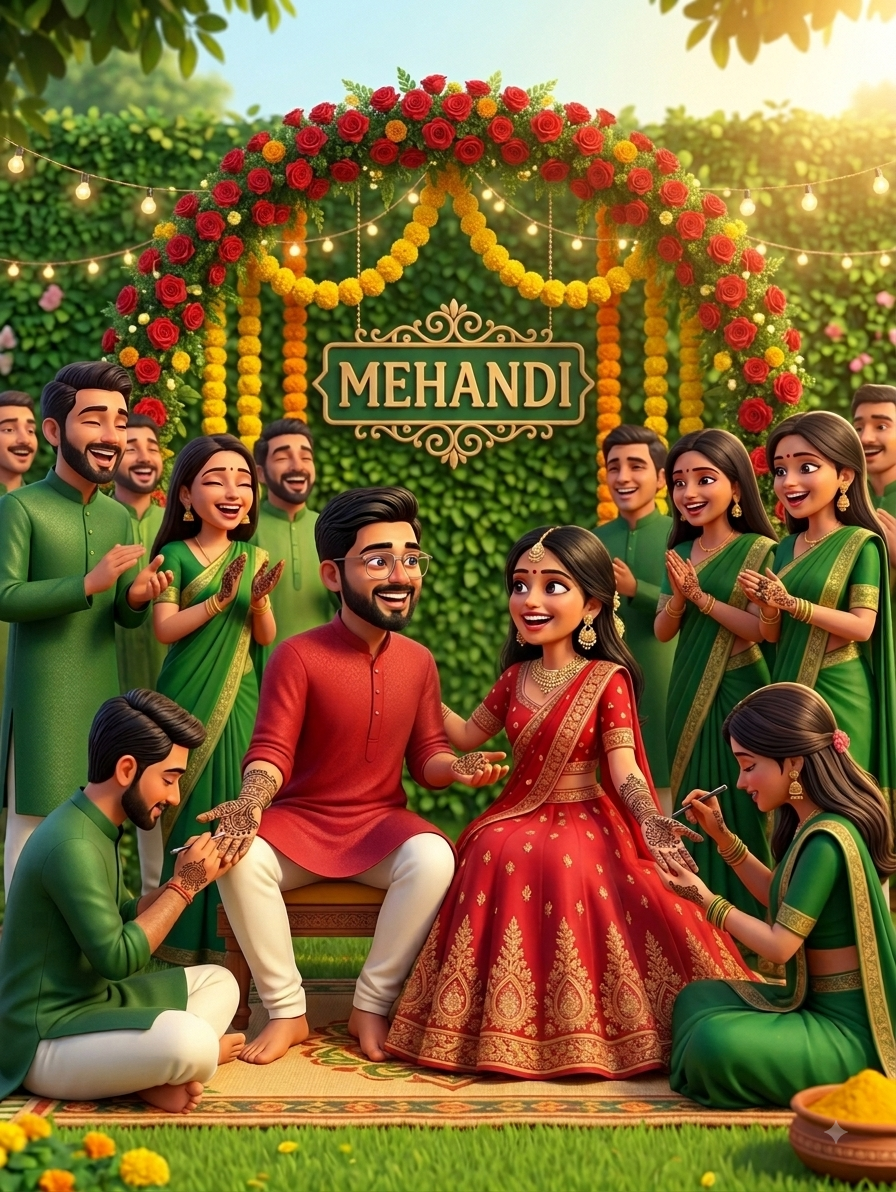
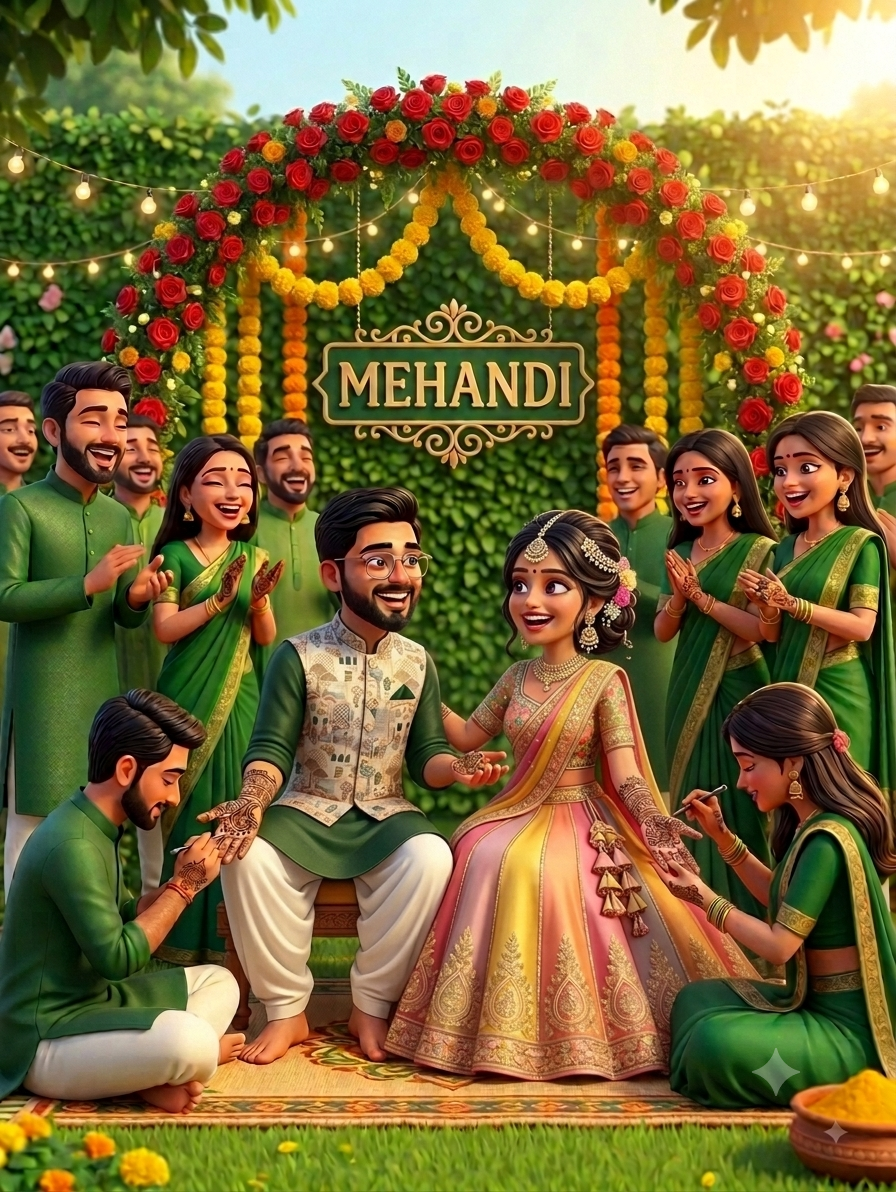
Update default wish name and relation to Sai (Groom's Friend)

diff --git a/index.html b/index.html
@@ -907,12 +907,12 @@
           
           <div>
             <label class="block font-semibold text-charcoal mb-1">Your Name / Family Name</label>
-            <input type="text" id="cardNameInput" oninput="updateWishCardLive()" placeholder="e.g. Anvesha &amp; Family" value="Anvesha" class="w-full px-3.5 py-2.5 rounded-xl bg-ivory border border-goldFoil/30 text-charcoal focus:outline-none focus:border-goldFoil"/>
+            <input type="text" id="cardNameInput" oninput="updateWishCardLive()" placeholder="e.g. Sai &amp; Family" value="Sai" class="w-full px-3.5 py-2.5 rounded-xl bg-ivory border border-goldFoil/30 text-charcoal focus:outline-none focus:border-goldFoil"/>
           </div>
 
           <div>
             <label class="block font-semibold text-charcoal mb-1">Relationship / Tag</label>
-            <input type="text" id="cardRelationInput" oninput="updateWishCardLive()" placeholder="e.g. Bride's Sister / College Besties" value="Bride's Squad &hearts;" class="w-full px-3.5 py-2.5 rounded-xl bg-ivory border border-goldFoil/30 text-charcoal focus:outline-none focus:border-goldFoil"/>
+            <input type="text" id="cardRelationInput" oninput="updateWishCardLive()" placeholder="e.g. Groom's Friend / College Besties" value="Groom's Friend" class="w-full px-3.5 py-2.5 rounded-xl bg-ivory border border-goldFoil/30 text-charcoal focus:outline-none focus:border-goldFoil"/>
           </div>
 
           <div>
@@ -1018,8 +1018,8 @@
 
               <!-- Sender Signature -->
               <div class="pt-2 border-t border-current/20 space-y-0.5 relative z-10">
-                <h5 id="cardPreviewName" class="font-serif text-lg font-bold">Anvesha</h5>
-                <p id="cardPreviewRelation" class="text-[10px] uppercase tracking-wider font-semibold opacity-75">Bride's Squad &hearts;</p>
+                <h5 id="cardPreviewName" class="font-serif text-lg font-bold">Sai</h5>
+                <p id="cardPreviewRelation" class="text-[10px] uppercase tracking-wider font-semibold opacity-75">Groom's Friend</p>
                 <p class="text-[9px] opacity-60 tracking-widest font-mono">26-27 NOV 2026 &bull; BLESSINGS</p>
               </div>
 
@@ -1784,8 +1784,8 @@
     }
 
     function updateWishCardLive() {
-      const name = document.getElementById('cardNameInput').value.trim() || 'Anvesha';
-      const relation = document.getElementById('cardRelationInput').value.trim() || 'Wedding Guest';
+      const name = document.getElementById('cardNameInput').value.trim() || 'Sai';
+      const relation = document.getElementById('cardRelationInput').value.trim() || "Groom's Friend";
       const msg = document.getElementById('cardMessageInput').value.trim() || 'Wishing Diksha & Mohit eternal joy!';
       const song = document.getElementById('cardSongInput').value.trim();
 
@@ -1811,7 +1811,7 @@
 
     // Default Seed Wishes
     const defaultWishes = [
-      { name: "Anvesha", relation: "Bride's Squad &hearts;", msg: "May Diksha and Mohit's bond grow stronger with each passing day. Wishing you endless smiles, prosperity, and unconditional love!", song: "Sajna", theme: "gold", time: "Just now" },
+      { name: "Sai", relation: "Groom's Friend", msg: "May Diksha and Mohit's bond grow stronger with each passing day. Wishing you endless smiles, prosperity, and unconditional love!", song: "Sajna", theme: "gold", time: "Just now" },
       { name: "College Friends Squad", relation: "Friends &hearts;", msg: "Can't wait to rock the Sangeet dance battle and celebrate the most beautiful couple!", song: "Sajna", theme: "violet", time: "1 hour ago" },
       { name: "Verma &amp; Gupta Family", relation: "Relatives", msg: "Blessings and love to dear Diksha &amp; Mohit for a blissful married life ahead!", song: "Sajna", theme: "emerald", time: "2 hours ago" }
     ];
@@ -1823,13 +1823,18 @@
       const stored = localStorage.getItem(CLOUD_STORAGE_KEY) || localStorage.getItem('diksha_mohit_wishes');
       let list = stored ? JSON.parse(stored) : defaultWishes;
       
-      // Update any previous "Priya Sharma" occurrences in cache to "Anvesha"
+      // Update any previous "Priya Sharma" or "Anvesha" occurrences in cache to "Sai"
+      let needsSave = false;
       list = list.map(w => {
-        if (w.name === 'Priya Sharma' || w.name === 'Sharma Family') {
-          return { ...w, name: 'Anvesha', relation: "Bride's Squad &hearts;" };
+        if (w.name === 'Priya Sharma' || w.name === 'Sharma Family' || w.name === 'Anvesha') {
+          needsSave = true;
+          return { ...w, name: 'Sai', relation: "Groom's Friend" };
         }
         return w;
       });
+      if (needsSave) {
+        try { localStorage.setItem(CLOUD_STORAGE_KEY, JSON.stringify(list)); } catch (e) {}
+      }
 
       renderWishesList(list);
     }
@@ -1865,8 +1870,8 @@
     const APPS_SCRIPT_URL = "https://script.google.com/macros/s/AKfycbxqUz41nEOpo2Wkpo4OLVNHer5HteSxf33IWc0z6UzNhd5GsU8X9AK6YDyz7Z7giGUWQg/exec";
 
     function saveAndPostWishCard() {
-      const name = document.getElementById('cardNameInput').value.trim() || 'Anvesha';
-      const relation = document.getElementById('cardRelationInput').value.trim() || 'Guest';
+      const name = document.getElementById('cardNameInput').value.trim() || 'Sai';
+      const relation = document.getElementById('cardRelationInput').value.trim() || "Groom's Friend";
       const msg = document.getElementById('cardMessageInput').value.trim();
       const song = document.getElementById('cardSongInput').value.trim();
       const cardElem = document.getElementById('exportWishCard');
